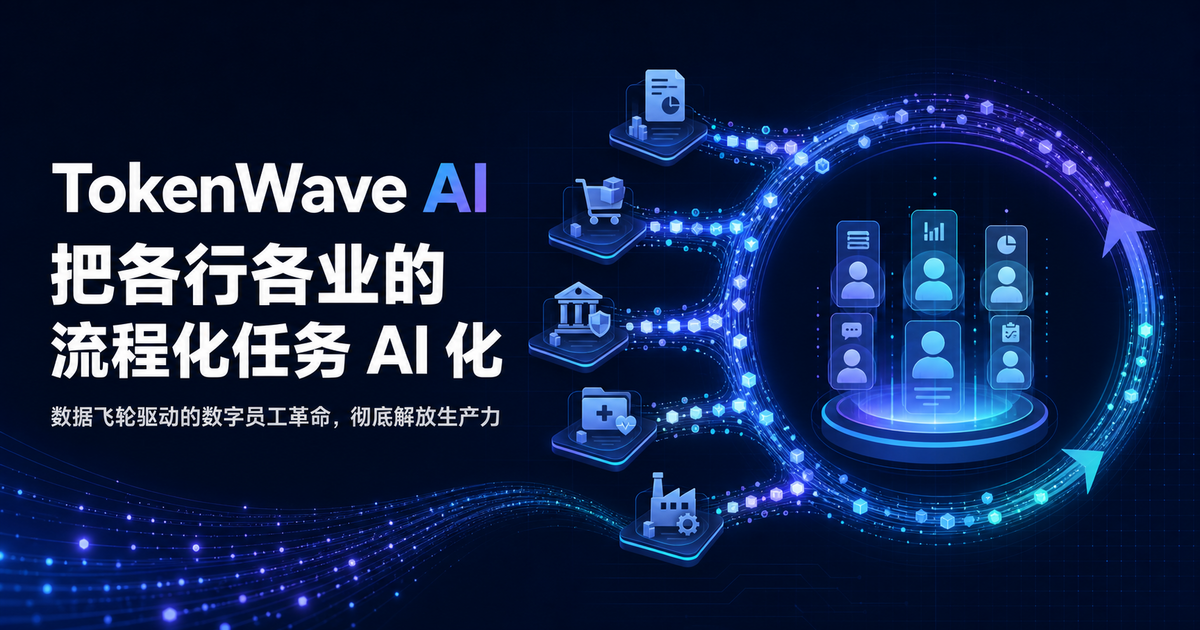
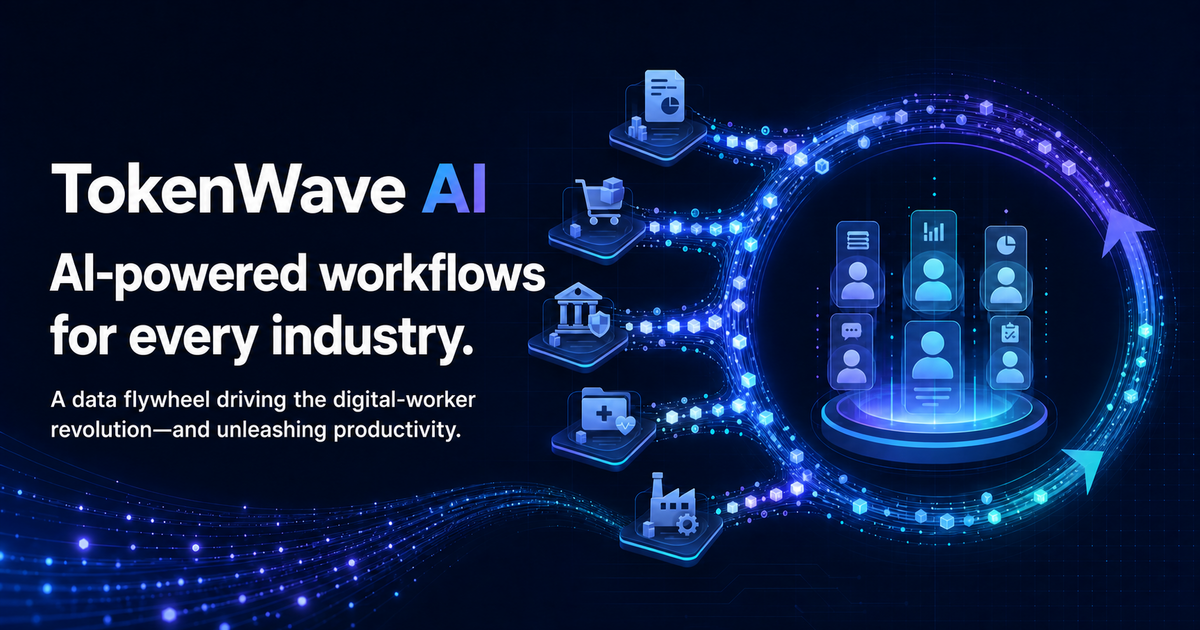
Translate homepage mission into English

diff --git a/index.html b/index.html
@@ -1,21 +1,21 @@
 <!DOCTYPE html>
-<html lang="zh-CN">
+<html lang="en">
 <head>
     <meta charset="UTF-8">
     <meta name="viewport" content="width=device-width, initial-scale=1.0">
-    <title>TokenWave AI — 把各行各业的流程化任务 AI 化</title>
-    <meta name="description" content="TokenWave 的使命是把各行各业的流程化任务 AI 化，以数据飞轮驱动数字员工革命，彻底解放生产力。">
+    <title>TokenWave AI — AI-Powered Workflows for Every Industry</title>
+    <meta name="description" content="TokenWave builds AI-powered workflows for every industry, with a data flywheel driving the digital-worker revolution and unleashing productivity.">
 
     <!-- Open Graph / Twitter -->
     <meta property="og:type" content="website">
     <meta property="og:site_name" content="TokenWave AI">
-    <meta property="og:title" content="TokenWave AI — 把各行各业的流程化任务 AI 化">
-    <meta property="og:description" content="数据飞轮驱动的数字员工革命，彻底解放生产力。">
+    <meta property="og:title" content="TokenWave AI — AI-Powered Workflows for Every Industry">
+    <meta property="og:description" content="A data flywheel driving the digital-worker revolution—and unleashing productivity.">
     <meta property="og:url" content="https://tokenwave.ai/">
     <meta property="og:image" content="https://tokenwave.ai/static/images/og-mission.png">
     <meta name="twitter:card" content="summary_large_image">
-    <meta name="twitter:title" content="TokenWave AI — 把各行各业的流程化任务 AI 化">
-    <meta name="twitter:description" content="数据飞轮驱动的数字员工革命，彻底解放生产力。">
+    <meta name="twitter:title" content="TokenWave AI — AI-Powered Workflows for Every Industry">
+    <meta name="twitter:description" content="A data flywheel driving the digital-worker revolution—and unleashing productivity.">
     <meta name="twitter:image" content="https://tokenwave.ai/static/images/og-mission.png">
     <link rel="canonical" href="https://tokenwave.ai/">
 
@@ -24,7 +24,7 @@
     <link rel="apple-touch-icon" href="static/apple-touch-icon.png">
     <link rel="preload" href="static/fonts/IBMPlexSans-Regular.woff2" as="font" type="font/woff2" crossorigin>
     <link rel="preload" href="static/fonts/IBMPlexMono-Regular.woff2" as="font" type="font/woff2" crossorigin>
-    <link rel="stylesheet" href="static/css/style.css?v=6f318643">
+    <link rel="stylesheet" href="static/css/style.css?v=18a36f48">
     <!-- Pre-hide page if arriving via full-page transition (must run before first paint) -->
     <script>try{if(sessionStorage.getItem('tokenwave_transition')==='full'){document.documentElement.style.opacity='0';}}catch(e){}</script>
 </head>
@@ -47,11 +47,11 @@
 
 <section class="hero solo">
     <div class="eyebrow">TokenWave Mission</div>
-    <h1>把各行各业的<span class="hl">流程化任务 AI 化</span>。</h1>
-    <p class="hero-thesis"><span class="mission-emphasis">数据飞轮</span>驱动的数字员工革命，<b>彻底解放生产力。</b></p>
+    <h1>Our mission: <span class="hl">AI-powered workflows</span> for every industry.</h1>
+    <p class="hero-thesis"><span class="mission-emphasis">A data flywheel</span> driving the digital-worker revolution—and <b>unleashing productivity.</b></p>
     <div class="hero-actions">
-        <a class="button primary" href="careers.html">查看职业与基准 &rarr;</a>
-        <a class="button" href="research.html">阅读研究</a>
+        <a class="button primary" href="careers.html">Browse roles and benchmarks &rarr;</a>
+        <a class="button" href="research.html">Read the research</a>
     </div>
 
     <div class="defband">
@@ -60,7 +60,7 @@
             <span class="defband-phon">Brand statement</span>
         </div>
         <div class="defband-body brand-manifesto">
-            <span>TokenWave：在 <b>Token 的传递与交流</b>中，启发智能，释放生产力。</span>
+            <span>TokenWave: intelligence emerges as <b>tokens flow and communicate</b>—unlocking productivity.</span>
         </div>
     </div>
 </section>

diff --git a/benchmarks/autokaggle.html b/benchmarks/autokaggle.html
@@ -23,7 +23,7 @@
     <link rel="apple-touch-icon" href="../static/apple-touch-icon.png">
     <link rel="preload" href="../static/fonts/IBMPlexSans-Regular.woff2" as="font" type="font/woff2" crossorigin>
     <link rel="preload" href="../static/fonts/IBMPlexMono-Regular.woff2" as="font" type="font/woff2" crossorigin>
-    <link rel="stylesheet" href="../static/css/style.css?v=6f318643">
+    <link rel="stylesheet" href="../static/css/style.css?v=18a36f48">
     <!-- Pre-hide page if arriving via full-page transition (must run before first paint) -->
     <script>try{if(sessionStorage.getItem('tokenwave_transition')==='full'){document.documentElement.style.opacity='0';}}catch(e){}</script>
 </head>

diff --git a/benchmarks/automv.html b/benchmarks/automv.html
@@ -23,7 +23,7 @@
     <link rel="apple-touch-icon" href="../static/apple-touch-icon.png">
     <link rel="preload" href="../static/fonts/IBMPlexSans-Regular.woff2" as="font" type="font/woff2" crossorigin>
     <link rel="preload" href="../static/fonts/IBMPlexMono-Regular.woff2" as="font" type="font/woff2" crossorigin>
-    <link rel="stylesheet" href="../static/css/style.css?v=6f318643">
+    <link rel="stylesheet" href="../static/css/style.css?v=18a36f48">
     <!-- Pre-hide page if arriving via full-page transition (must run before first paint) -->
     <script>try{if(sessionStorage.getItem('tokenwave_transition')==='full'){document.documentElement.style.opacity='0';}}catch(e){}</script>
 </head>

diff --git a/benchmarks/code-simpleqa.html b/benchmarks/code-simpleqa.html
@@ -23,7 +23,7 @@
     <link rel="apple-touch-icon" href="../static/apple-touch-icon.png">
     <link rel="preload" href="../static/fonts/IBMPlexSans-Regular.woff2" as="font" type="font/woff2" crossorigin>
     <link rel="preload" href="../static/fonts/IBMPlexMono-Regular.woff2" as="font" type="font/woff2" crossorigin>
-    <link rel="stylesheet" href="../static/css/style.css?v=6f318643">
+    <link rel="stylesheet" href="../static/css/style.css?v=18a36f48">
     <!-- Pre-hide page if arriving via full-page transition (must run before first paint) -->
     <script>try{if(sessionStorage.getItem('tokenwave_transition')==='full'){document.documentElement.style.opacity='0';}}catch(e){}</script>
 </head>

diff --git a/benchmarks/codeeditorbench.html b/benchmarks/codeeditorbench.html
@@ -23,7 +23,7 @@
     <link rel="apple-touch-icon" href="../static/apple-touch-icon.png">
     <link rel="preload" href="../static/fonts/IBMPlexSans-Regular.woff2" as="font" type="font/woff2" crossorigin>
     <link rel="preload" href="../static/fonts/IBMPlexMono-Regular.woff2" as="font" type="font/woff2" crossorigin>
-    <link rel="stylesheet" href="../static/css/style.css?v=6f318643">
+    <link rel="stylesheet" href="../static/css/style.css?v=18a36f48">
     <!-- Pre-hide page if arriving via full-page transition (must run before first paint) -->
     <script>try{if(sessionStorage.getItem('tokenwave_transition')==='full'){document.documentElement.style.opacity='0';}}catch(e){}</script>
 </head>

diff --git a/benchmarks/criticlean.html b/benchmarks/criticlean.html
@@ -23,7 +23,7 @@
     <link rel="apple-touch-icon" href="../static/apple-touch-icon.png">
     <link rel="preload" href="../static/fonts/IBMPlexSans-Regular.woff2" as="font" type="font/woff2" crossorigin>
     <link rel="preload" href="../static/fonts/IBMPlexMono-Regular.woff2" as="font" type="font/woff2" crossorigin>
-    <link rel="stylesheet" href="../static/css/style.css?v=6f318643">
+    <link rel="stylesheet" href="../static/css/style.css?v=18a36f48">
     <!-- Pre-hide page if arriving via full-page transition (must run before first paint) -->
     <script>try{if(sessionStorage.getItem('tokenwave_transition')==='full'){document.documentElement.style.opacity='0';}}catch(e){}</script>
 </head>

diff --git a/benchmarks/edgebench.html b/benchmarks/edgebench.html
@@ -23,7 +23,7 @@
     <link rel="apple-touch-icon" href="../static/apple-touch-icon.png">
     <link rel="preload" href="../static/fonts/IBMPlexSans-Regular.woff2" as="font" type="font/woff2" crossorigin>
     <link rel="preload" href="../static/fonts/IBMPlexMono-Regular.woff2" as="font" type="font/woff2" crossorigin>
-    <link rel="stylesheet" href="../static/css/style.css?v=6f318643">
+    <link rel="stylesheet" href="../static/css/style.css?v=18a36f48">
     <!-- Pre-hide page if arriving via full-page transition (must run before first paint) -->
     <script>try{if(sessionStorage.getItem('tokenwave_transition')==='full'){document.documentElement.style.opacity='0';}}catch(e){}</script>
 </head>

diff --git a/benchmarks/formalmath.html b/benchmarks/formalmath.html
@@ -23,7 +23,7 @@
     <link rel="apple-touch-icon" href="../static/apple-touch-icon.png">
     <link rel="preload" href="../static/fonts/IBMPlexSans-Regular.woff2" as="font" type="font/woff2" crossorigin>
     <link rel="preload" href="../static/fonts/IBMPlexMono-Regular.woff2" as="font" type="font/woff2" crossorigin>
-    <link rel="stylesheet" href="../static/css/style.css?v=6f318643">
+    <link rel="stylesheet" href="../static/css/style.css?v=18a36f48">
     <!-- Pre-hide page if arriving via full-page transition (must run before first paint) -->
     <script>try{if(sessionStorage.getItem('tokenwave_transition')==='full'){document.documentElement.style.opacity='0';}}catch(e){}</script>
 </head>

diff --git a/benchmarks/mammoth2.html b/benchmarks/mammoth2.html
@@ -23,7 +23,7 @@
     <link rel="apple-touch-icon" href="../static/apple-touch-icon.png">
     <link rel="preload" href="../static/fonts/IBMPlexSans-Regular.woff2" as="font" type="font/woff2" crossorigin>
     <link rel="preload" href="../static/fonts/IBMPlexMono-Regular.woff2" as="font" type="font/woff2" crossorigin>
-    <link rel="stylesheet" href="../static/css/style.css?v=6f318643">
+    <link rel="stylesheet" href="../static/css/style.css?v=18a36f48">
     <!-- Pre-hide page if arriving via full-page transition (must run before first paint) -->
     <script>try{if(sessionStorage.getItem('tokenwave_transition')==='full'){document.documentElement.style.opacity='0';}}catch(e){}</script>
 </head>

diff --git a/benchmarks/mm-browsecomp.html b/benchmarks/mm-browsecomp.html
@@ -23,7 +23,7 @@
     <link rel="apple-touch-icon" href="../static/apple-touch-icon.png">
     <link rel="preload" href="../static/fonts/IBMPlexSans-Regular.woff2" as="font" type="font/woff2" crossorigin>
     <link rel="preload" href="../static/fonts/IBMPlexMono-Regular.woff2" as="font" type="font/woff2" crossorigin>
-    <link rel="stylesheet" href="../static/css/style.css?v=6f318643">
+    <link rel="stylesheet" href="../static/css/style.css?v=18a36f48">
     <!-- Pre-hide page if arriving via full-page transition (must run before first paint) -->
     <script>try{if(sessionStorage.getItem('tokenwave_transition')==='full'){document.documentElement.style.opacity='0';}}catch(e){}</script>
 </head>

diff --git a/benchmarks/nl2repo-bench.html b/benchmarks/nl2repo-bench.html
@@ -23,7 +23,7 @@
     <link rel="apple-touch-icon" href="../static/apple-touch-icon.png">
     <link rel="preload" href="../static/fonts/IBMPlexSans-Regular.woff2" as="font" type="font/woff2" crossorigin>
     <link rel="preload" href="../static/fonts/IBMPlexMono-Regular.woff2" as="font" type="font/woff2" crossorigin>
-    <link rel="stylesheet" href="../static/css/style.css?v=6f318643">
+    <link rel="stylesheet" href="../static/css/style.css?v=18a36f48">
     <!-- Pre-hide page if arriving via full-page transition (must run before first paint) -->
     <script>try{if(sessionStorage.getItem('tokenwave_transition')==='full'){document.documentElement.style.opacity='0';}}catch(e){}</script>
 </head>

diff --git a/benchmarks/omni-math.html b/benchmarks/omni-math.html
@@ -23,7 +23,7 @@
     <link rel="apple-touch-icon" href="../static/apple-touch-icon.png">
     <link rel="preload" href="../static/fonts/IBMPlexSans-Regular.woff2" as="font" type="font/woff2" crossorigin>
     <link rel="preload" href="../static/fonts/IBMPlexMono-Regular.woff2" as="font" type="font/woff2" crossorigin>
-    <link rel="stylesheet" href="../static/css/style.css?v=6f318643">
+    <link rel="stylesheet" href="../static/css/style.css?v=18a36f48">
     <!-- Pre-hide page if arriving via full-page transition (must run before first paint) -->
     <script>try{if(sessionStorage.getItem('tokenwave_transition')==='full'){document.documentElement.style.opacity='0';}}catch(e){}</script>
 </head>
